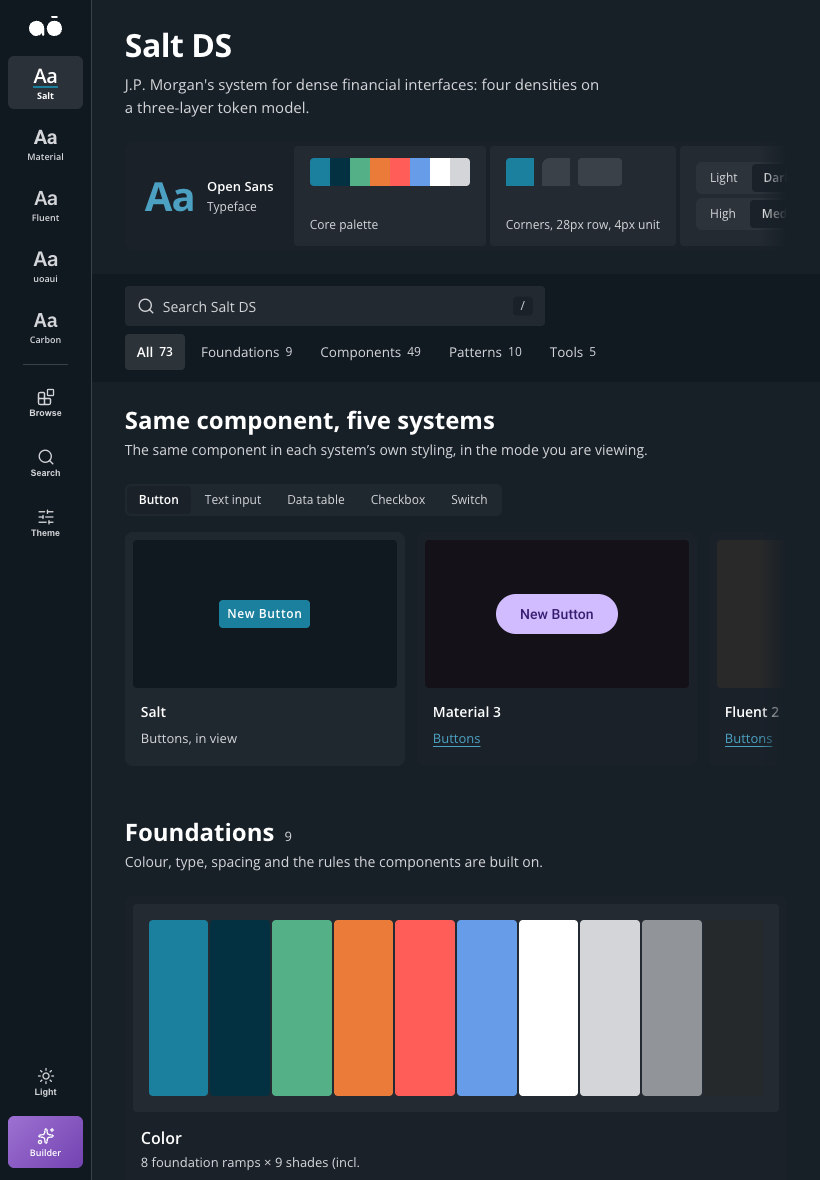
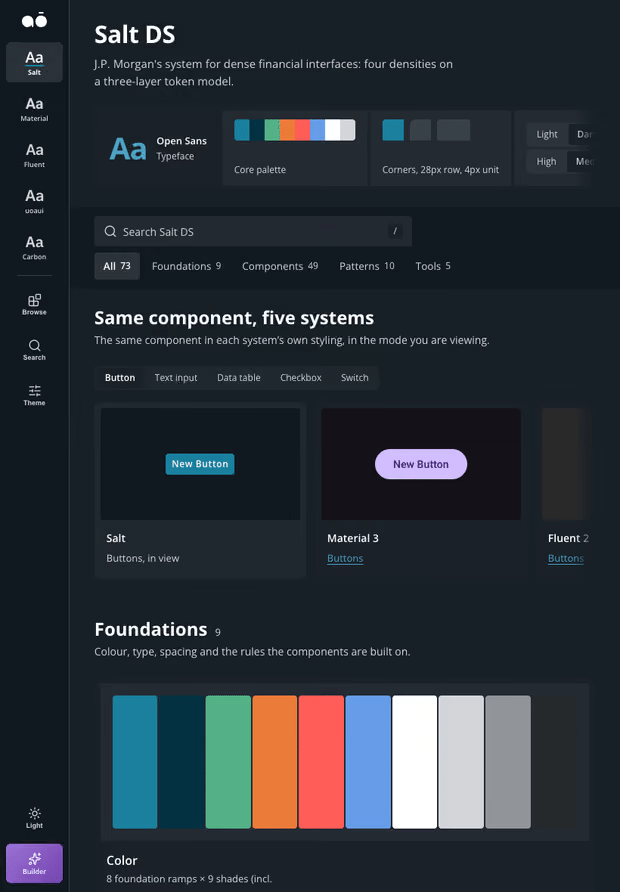
Sync uoaui artwork and simplify journey phase headings (#48)
* Sync uoaui artwork and simplify journey phase headings

* Record verified uoaui Figma spacing repair

Changed region(s): [[0.2758, 0.1513, 0.3065, 0.1816], [0.1839, 0.9383, 0.2145, 0.9686]]

diff --git a/tests/figma-sync.spec.ts b/tests/figma-sync.spec.ts
@@ -10,7 +10,7 @@ test('all fifteen personas share portrait framing and one card surface',async({p
       await page.setViewportSize({width,height:900});
       const frames=await page.locator('.persona-art').evaluateAll(nodes=>nodes.map(n=>({w:n.clientWidth,h:n.clientHeight})));
       for(const f of frames){expect(f.w).toBe(300);expect(f.h).toBe(400);}
-      await expect(page.locator('.persona-card').first()).toHaveCSS('background-color','rgb(245, 228, 220)');
+      await expect(page.locator('.persona-card').first()).toHaveCSS('background-color',route==='/uoaui'?'rgb(239, 240, 227)':'rgb(245, 228, 220)');
     }
   }
 });

diff --git a/BUILD.md b/BUILD.md
@@ -619,3 +619,13 @@ I synced the latest Fusion screen artwork from my portfolio Figma file. Performa
 I refreshed the configuration, tablet and phone captures from their original uploaded image data, preserving my Figma crops. I also reserved space for lazy-loaded SVG screens and journey graphics so section links do not shift as artwork loads.
 
 Validation: production build, desktop and mobile visual checks, and the full browser suite, including delayed-image navigation on Fusion and uoaui.ai.
+
+### 11 October · uoaui.ai artwork and quieter journey phases
+
+I synced my updated uoaui.ai builder, comparison, UI Kit, charts, forms, house-system and responsive screenshots from Figma using the original image data. The Mei Lin and Dev Patel portraits and card colours now match my updated artwork.
+
+I removed the vertical colour bars beside journey phase headings across the case studies. Larger gaps separate the phases, while the horizontal rules above individual steps remain.
+
+Validation: type check and production build, desktop and mobile visual checks, and the browser suite. The persona check now expects my revised uoaui.ai card colour.
+
+I repaired the uoaui.ai desktop and mobile Figma spacing using content columns with consistent gaps. Empty caption space and legacy duplicate mobile persona content are hidden. The artwork, image fills and copy remain intact. I checked the resulting section bounds and both persona layouts.
